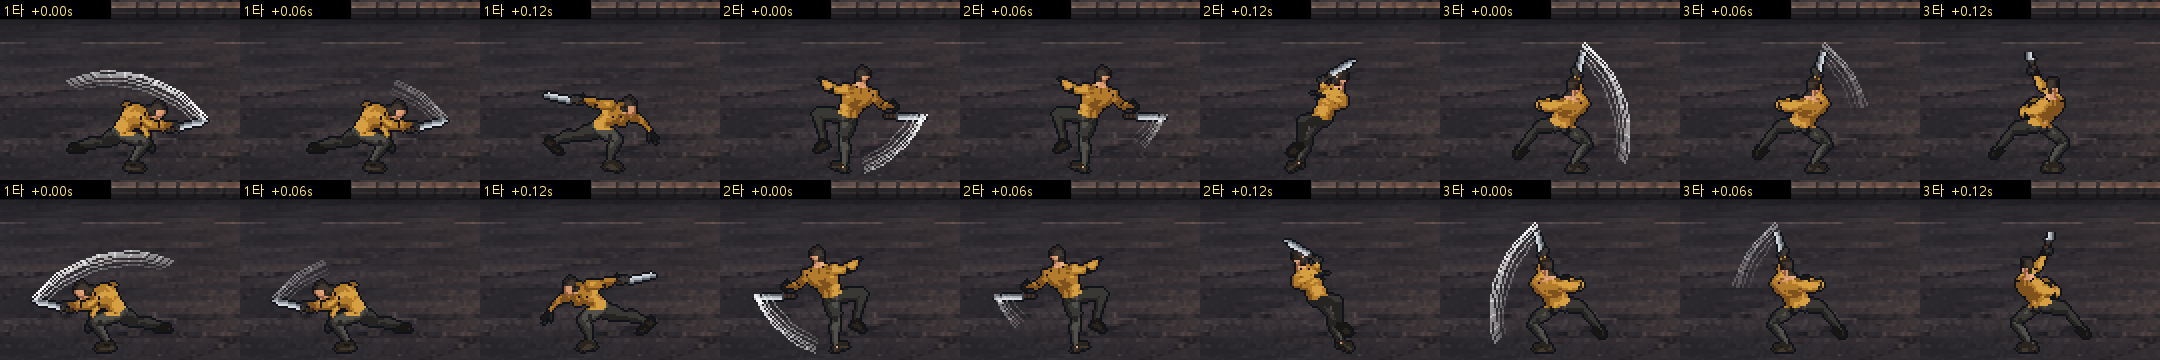
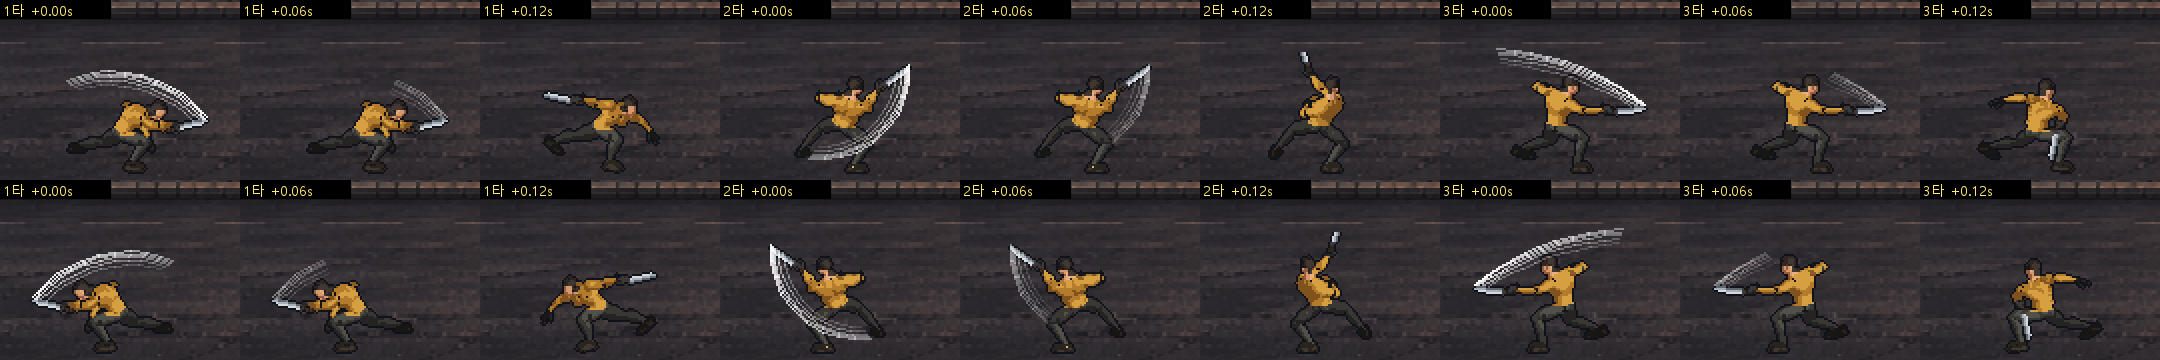
이동 속도·뛰기, 연타를 가로 베기 → 올려 베기 → 내려치기로
- 걷기 2.0m/s, 은신 1.3m/s, 뛰기 4.8m/s (Space를 누른 채 이동: 대시에 이어 뛰기)
- 뛰기 시트 run=Jog_Fwd_Loop, stride_m 5.39 (걸은 거리로 재생)
- 3타 내려치기: Sword_Attack (머리 위로 들었다 파고들며 내려침), 2타 올려 베기 4칸
- 검로: 베기는 몸 앞을 지나는 쪽으로 돌게 (올려 베기 185° 문제), 넓게 돌아도 앞이 아니면 찌르기 잔상
- HUD 안내, README·PRD·PLAN·CHARACTER_WORKFLOW·개발일지 갱신

diff --git a/src/weapon.py b/src/weapon.py
@@ -26,10 +26,10 @@ Weapon = namedtuple("Weapon", "name swings combo_window sneak_multiplier")
 MACHETE = Weapon(
     name="마체테",
     swings=(
-        # 1st and 2nd: quick, light blows; 3rd: the big rising cut with a real wind-up.
+        # 1st and 2nd: quick, light blows; 3rd: the big chop with a real wind-up.
         Swing("swing", 0.46, 0.14, 2, 42, 20, pi / 3, 110, 0.72, False),    # quick sweep
-        Swing("swing2", 0.50, 0.20, 2, 44, 20, pi / 3, 110, 0.70, False),   # quick thrust
-        Swing("swing3", 0.66, 0.26, 6, 50, 24, pi / 3, 320, 0.76, True),    # big rising cut
+        Swing("swing2", 0.50, 0.16, 2, 46, 22, pi / 3, 110, 0.73, False),   # rising cut
+        Swing("swing3", 0.72, 0.30, 6, 50, 24, pi / 3, 320, 0.74, True),    # big chop down
     ),
     combo_window=0.25,
     sneak_multiplier=3,
@@ -128,7 +128,7 @@ class MeleeAttack:
         # While the impact frame shows, the whole blow; once the sprite moves on, a cut's arc
         # stays only as a fading after-image and a thrust's streak (tied to the blade) goes.
         draw_stroke(before, lines[impact], fade * (0.45 if moved_on else 1), MAX_BLOW_TURN,
-                    streak=not moved_on)
+                    streak=not moved_on, facing=attacker.direction)
         if moved_on and impact + 1 < len(lines) and lines[impact + 1]:
             draw_stroke(lines[impact], lines[impact + 1], fade, MAX_FOLLOW_TURN)
 
@@ -138,23 +138,32 @@ class MeleeAttack:
             pico2d.draw_line(x + self.dx * x1, y + y1, x + self.dx * x2, y + y2, shade, shade, shade)
 
 
-# Radians a blade may turn between two frames and still read as a cut: the blow itself can
-# swing wide (a sweep over the head turns ~140 degrees), the follow-through less. A blow
-# turning further is a thrust or a flip and gets a straight streak instead.
-MAX_BLOW_TURN = 2.7
-MAX_FOLLOW_TURN = 1.75
+# Radians a blade may turn between two frames and still read as a cut. A blow's arc goes the
+# way round that passes in front of the body (a cut always crosses the front); it may turn
+# up to MAX_BLOW_TURN (a rising cut from behind turns ~185 degrees). A wide turn whose middle
+# is not in front (the blade flips over the head, as in a thrust) gets a straight streak.
+MAX_BLOW_TURN = 3.5
+WIDE_TURN = 2.7
+MIN_FRONT = 0.3              # cos of the arc's middle angle along the facing for a wide cut
+MAX_FOLLOW_TURN = 1.9
 RINGS = ((1.0, 255), (0.93, 235), (0.86, 205), (0.75, 150), (0.62, 90))   # radius, alpha
 
 
-def draw_stroke(before, at, fade, max_turn, streak=False):
+def draw_stroke(before, at, fade, max_turn, streak=False, facing=0):
     """Trail of a blade moving from `before` to `at` ((grip, tip) screen pairs): a crescent
-    when it turns at most max_turn, otherwise (a thrust or a backhand flip) a straight streak
-    behind the tip if streak is set, or nothing."""
+    when it turns at most max_turn, otherwise a straight streak behind the tip if streak is
+    set, or nothing. With facing (+1 / -1, for the blow itself) the arc takes the way round
+    that passes in front of the body, and a wide turn that is not in front is a thrust."""
     (g0, t0), (g1, t1) = before, at
     a0 = atan2(t0[1] - g0[1], t0[0] - g0[0])
     a1 = atan2(t1[1] - g1[1], t1[0] - g1[0])
     turn = (a1 - a0 + pi) % (2 * pi) - pi          # the short way round
-    if abs(turn) <= max_turn:
+    front = 1.0
+    if facing:
+        other = turn - 2 * pi if turn > 0 else turn + 2 * pi
+        turn = max((turn, other), key=lambda t: cos(a0 + t / 2) * facing)
+        front = cos(a0 + turn / 2) * facing
+    if abs(turn) <= max_turn and (abs(turn) <= WIDE_TURN or front >= MIN_FRONT):
         draw_sweep(before, at, a0, turn, fade)
     elif streak:
         draw_streak(at, fade)

diff --git a/src/player.py b/src/player.py
@@ -21,8 +21,9 @@ PLAYER_HALF_SIZE = 11
 # Leg cycles cover 1.30 m (walk) and 1.09 m (sneak) of ground, measured from how fast the
 # planted foot slides back in Blender. At these speeds the legs play 1.7x and 1.2x as fast
 # as authored: a brisk walk and a careful sneak, both still natural, feet planted.
-WALK_SPEED_M = 1.7           # metres per second
-SNEAK_SPEED_M = 1.0
+WALK_SPEED_M = 2.0           # metres per second
+SNEAK_SPEED_M = 1.3
+RUN_SPEED_M = 4.8            # Space held while moving (a dash rolls straight into a run)
 DASH_SPEED = 340
 DASH_DURATION = 0.14
 DASH_COOLDOWN = 0.45
@@ -39,6 +40,7 @@ class Player:
         self.tile_map = tile_map
         self.look = look         # character_look: draws poses, whatever the art
         self.sneaking = False
+        self.running = False
         self.direction = 1
         self.walk_time = 0.0     # seconds spent moving (0 while standing)
         self.walk_distance = 0.0 # metres walked, drives the leg cycle so feet never slide
@@ -209,6 +211,7 @@ class Player:
         keys = sdl2.SDL_GetKeyboardState(None)
         self.sneaking = bool(keys[sdl2.SDL_SCANCODE_LSHIFT] or keys[sdl2.SDL_SCANCODE_RSHIFT])
         direction_x, direction_y = self.movement_direction(keys)
+        self.running = bool(keys[sdl2.SDL_SCANCODE_SPACE]) and not self.sneaking
         if direction_x == direction_y == 0:
             if self.state != "IDLE":
                 self.stop()
@@ -219,7 +222,7 @@ class Player:
         elif not self.sneaking and self.state != "WALK":
             self.walk()
         movement_time = step * self.speed_multiplier
-        speed = (SNEAK_SPEED_M if self.sneaking else WALK_SPEED_M) * PX_PER_M_X
+        speed = (SNEAK_SPEED_M if self.sneaking else RUN_SPEED_M if self.running else WALK_SPEED_M) * PX_PER_M_X
         distance_per_axis = speed * movement_time / hypot(direction_x, direction_y)
         old = (self.x, self.y)
         if self.move(direction_x * distance_per_axis, direction_y * distance_per_axis):
@@ -278,8 +281,8 @@ class Player:
             # Holding Shift crouches at once, even before moving.
             self.draw_pose("sneak_idle" if self.sneaking else "idle", self.idle_time)
         else:
-            self.draw_pose("sneak" if self.sneaking else "walk", self.walk_time,
-                           distance=self.walk_distance)
+            pose = "sneak" if self.sneaking else "run" if self.running else "walk"
+            self.draw_pose(pose, self.walk_time, distance=self.walk_distance)
 
     def draw_dash_trail(self, strength):
         x, y = self.x - camera.x, self.y - 12

diff --git a/tools/blender/render_character.py b/tools/blender/render_character.py
@@ -26,18 +26,18 @@ SETTINGS = ["--tilt", "20", "--bands", "4", "--outline"]
 PASSES = [
     (LIB1,
      ["idle=Idle_Loop", "sneak_idle=Idle_Loop+Crouch_Idle_Loop*0.3", "walk=Walk_Loop",
-      "sneak=Walk_Loop+Crouch_Idle_Loop*0.3", "hurt=Hit_Chest", "down=Death01",
-      "pickup=Fixing_Kneeling@0-20"],
-     ["idle=4", "sneak_idle=4", "walk=12", "sneak=12", "hurt=3", "down=5", "pickup=4"],
+      "sneak=Walk_Loop+Crouch_Idle_Loop*0.3", "run=Jog_Fwd_Loop", "hurt=Hit_Chest", "down=Death01",
+      "pickup=Fixing_Kneeling@0-20", "swing3=Sword_Attack@0-16,Sword_Attack@26-36"],
+     ["idle=4", "sneak_idle=4", "walk=12", "sneak=12", "run=12", "hurt=3", "down=5", "pickup=4", "swing3=6,3"],
      ["--shift-for", "down=16"]),
     (LIB2,
-     # Machete combo (user order 2026-11-12, last change "can the 1st be the sweep?"): 1st a
-     # quick sweep (B, wind-up cut off), 2nd a quick thrust (C up to the stab, its end as the
-     # recovery), 3rd the big rising cut (A from its crouch on: the standing first frames
-     # read as a pause between hits).
-     ["swing=Sword_Regular_B@2-13,Sword_Regular_B_Rec", "swing2=Sword_Regular_C@0-8,Sword_Regular_C@30-48",
-      "swing3=Sword_Regular_A@4-,Sword_Regular_A_Rec@7-23"],
-     ["swing=4,3", "swing2=4,3", "swing3=6,3"],
+     # Machete combo (user order 2026-11-12, "1st sweep, 2nd rising cut, 3rd chop down"):
+     # 1st a quick sweep (B, wind-up cut off), 2nd the rising cut (A from its crouch on,
+     # fewer frames), 3rd the big chop (Sword_Attack: blade raised overhead, lunge, chop down
+     # to the ground, then its own return to standing).
+     # (swing3 is in the first library, so it is rendered with the first pass above.)
+     ["swing=Sword_Regular_B@2-13,Sword_Regular_B_Rec", "swing2=Sword_Regular_A@4-,Sword_Regular_A_Rec@7-23"],
+     ["swing=4,3", "swing2=4,3"],
      []),
 ]
 

diff --git a/src/character_look.py b/src/character_look.py
@@ -29,9 +29,9 @@ import pico2d
 from nav import PX_PER_M_X
 
 
-LOOPING = {"idle", "walk", "sneak", "sneak_idle"}
+LOOPING = {"idle", "walk", "sneak", "sneak_idle", "run"}
 # A pose a character's sheets lack falls back to a close one: (pose, fixed frame or None).
-FALLBACK = {"sneak_idle": ("sneak", 0)}
+FALLBACK = {"sneak_idle": ("sneak", 0), "run": ("walk", None)}
 
 
 class SheetLook:
@@ -132,6 +132,8 @@ class LegacyLook:
     def pick(self, pose, time):
         if pose == "sneak_idle":
             return "sneak", 0
+        if pose == "run":
+            pose = "walk"                       # the old art has no run; walk faster instead
         if pose in ("walk", "sneak"):
             step = int(time / self.FRAME_TIME[pose]) % len(self.WALK_CYCLE)
             return pose, self.WALK_CYCLE[step]

diff --git a/src/hud.py b/src/hud.py
@@ -48,7 +48,7 @@ class ExplorationBar:
         width = ui.text_width(label, 14) + 12
         ui.panel(x - width / 2, y - radius - 2, x + width / 2, y - radius + 16, ui.PARTY)
         ui.text_center(x, y - radius + 7, label, ui.TEXT, 14)
-        ui.text(124, 70, "WASD 이동   Shift 은신   E 상호작용   Space 대시", ui.MUTED, 14)
+        ui.text(124, 70, "WASD 이동   Shift 은신   E 상호작용   Space 대시(누르고 있으면 뛰기)", ui.MUTED, 14)
         ui.text(124, 44, "좌클릭 마체테(연타 3번) · ! 뜨면 Space(직전이면 반격) · 들키기 전 공격은 기습", ui.MUTED, 14)
         ui.text(124, 18, "Tab 배낭   F1 설정   Esc 종료", ui.DIM, 14)
 

diff --git a/assets/characters/CHARACTER_WORKFLOW.md b/assets/characters/CHARACTER_WORKFLOW.md
@@ -127,11 +127,12 @@
 | 게임 동작 | 사용 애니메이션 | 칸 수 | 메모 |
 | --- | --- | --- | --- |
 | idle | `Idle_Loop` | 4 | |
-| walk | `Walk_Loop` | 12 | 2026-11-11 가볍게 뛰기(`Jog_Fwd_Loop`)를 잠깐 썼으나 실제로 약 6m/s 달리기 동작이라 걷기로 되돌림. 1.7m/s에서 원본의 1.7배 속도로 재생. 8→12칸으로 늘려 땅에 닿은 발이 덜 밀림 |
+| walk | `Walk_Loop` | 12 | 2026-11-11 가볍게 뛰기(`Jog_Fwd_Loop`)를 잠깐 썼으나 실제로 약 6m/s 달리기 동작이라 걷기로 되돌림. 1.7m/s에서 원본의 1.7배 속도로 재생(2026-11-12 2.0m/s). 8→12칸으로 늘려 땅에 닿은 발이 덜 밀림 |
 | sneak | `Walk_Loop` 위에 `Crouch_Idle_Loop`를 30% 얹음(`Walk_Loop+Crouch_Idle_Loop*0.3`) | 12 | 2026-11-11 30%로 조정(처음 40%), 6→12칸. 섞을 때는 COMBINE(회전을 곱해 더함)을 써야 함. 단순 평균(REPLACE)은 다리가 뒤로 뒤집힘 |
 | swing (1타) | `Sword_Regular_B@2-13` 4칸 + 복귀 `Sword_Regular_B_Rec` 3칸 (두 번째 팩 UAL2) | 7 | 빠른 가로 베기(준비 동작 잘라냄). 맞는 칸 인덱스 1, `hold` 0.35. 2026-11-12 "첫 번째 동작을 가로 베기로" → 다시 1타 |
-| swing2 (2타) | `Sword_Regular_C@0-8` 4칸 + `Sword_Regular_C@30-48` 3칸 | 7 | 내지르기: 뒤로 빼기 → 내리기 → 앞으로 찌르기. 맞는 칸 인덱스 2, `hold` 0.35. C@0-18은 중간에 칼을 다시 치켜드는 동작이 섞여 0-8로 자름 |
-| swing3 (3타) | `Sword_Regular_A@4-` 6칸 + 복귀 `Sword_Regular_A_Rec@7-23` 3칸 | 9 | 크게 숙였다가 베어 올리는 마무리. 처음 서 있는 칸은 타와 타 사이가 멈춘 것처럼 보여 뺌(`@4-`는 4프레임부터 끝까지). 맞는 칸 인덱스 2. 2026-11-11에는 이 동작이 1타(`swing`)였음 |
+| swing2 (2타) | `Sword_Regular_A@4-` 4칸 + 복귀 `Sword_Regular_A_Rec@7-23` 3칸 | 7 | 올려 베기: 숙인 자세에서 칼이 앞으로 올라감. 맞는 칸 인덱스 1, `hold` 0.35. 2026-11-12 "2타 올려 베기"로 3타에서 옮기며 6칸 → 4칸 |
+| swing3 (3타) | `Sword_Attack@0-16` 6칸 + `Sword_Attack@26-36` 3칸 (첫 번째 팩 UAL1) | 9 | 내려치기: 칼을 머리 위로 들었다가 앞으로 파고들며 내려침. 맞는 칸 인덱스 3, `hold` 0.25. 첫 번째 팩 동작이라 첫 번째 렌더 묶음에 들어 있음. 후보로 `TreeChopping_Loop`(내려치나 허리 높이에서 멈춤), `Sword_Regular_Combo`, `Melee_Hook`도 그려 비교함 |
+| run | `Jog_Fwd_Loop` | 12 | 2026-11-12 뛰기. 원래 5.87m/s(한 바퀴 0.92초에 5.39m), 게임 4.8m/s에서 걸은 거리로 재생 |
 | sneak_idle | `Idle_Loop` 위에 `Crouch_Idle_Loop`를 40% 얹음 | 4 | Shift만 누르고 서 있을 때. 시트가 없는 캐릭터는 `sneak` 첫 칸으로 대신함(`character_look.FALLBACK`) |
 | hurt | `Hit_Chest` | 3 | |
 | down | `Death01` | 5 | 마지막 칸 유지 |
@@ -291,3 +292,4 @@
 | 2026-11-12 | 사용자 지시 "2타가 조금 잘 안 보임, 차라리 1, 2타 순서를 바꾸자" | `render_character.py`에서 swing=C(내지르기), swing2=B(가로 베기)로 바꿔 다시 그림. `look.json`·`blade.json`도 함께 바뀜. 점검: ① 1타 직선 잔상 ② 2타 머리 위 호 ③ 3타 올려 베기 호 ④ 좌우 반전 맞음. 게임 화면 `previews/blade_trail_ingame.png` |
 | 2026-11-12 | 사용자 지시 "1·2타가 너무 빨라 잘 안 보이고 흰 선도 잘 안 맞음" | 원인: 맞는 칸이 0.047초만 보임. `look.json`에 `hold`(맞는 칸을 붙잡는 비율) 추가, 1타를 `C@0-8`로 다시 그림(6칸으로 늘려 보니 C 중간에 칼을 다시 치켜드는 동작이 섞여 있었음). 점검: ① 맞는 칸 약 0.1초 ② 1타 찌르는 칸에서 칼이 앞을 향함 ③ 검로가 맞는 칸의 칼과 이어짐 ④ 다음 칸으로 넘어가면 직선 잔상 사라짐. 게임 화면 `previews/blade_trail_ingame.png` |
 | 2026-11-12 | 사용자 지시 "첫 번째 동작을 가로 베기가 가능할까요?" | swing=B(가로 베기), swing2=C@0-8(내지르기)로 바꿔 다시 그림. `look.json`·`blade.json`·무기 시간도 함께 바꿈. 점검: ① 1타 머리 위 호 ② 2타 아래에서 앞으로 올라오는 짧은 호 ③ 3타 올려 베기 호 ④ 좌우 반전 맞음. 게임 화면 `previews/blade_trail_ingame.png` |
+| 2026-11-12 | 사용자 지시 "뛰기 기능", "1타 가로 베기, 2타 올려 베기, 3타 내려치기" | `run=Jog_Fwd_Loop` 12칸 추가(`look.json` `stride_m` 5.39). 내려치기 후보 4개(`Sword_Attack`, `TreeChopping_Loop`, `Sword_Regular_Combo`, `Melee_Hook`)를 그려 비교하고 `Sword_Attack`을 3타로. 점검: ① 뛰기 다리가 걸은 거리와 맞음 ② 2타 검로가 아래에서 앞으로 올라감(전에는 머리 위로 그려짐 → "베기는 몸 앞을 지난다" 규칙) ③ 3타 검로가 머리 위에서 앞으로 내려옴 ④ 좌우 반전 맞음. 게임 화면 `previews/blade_trail_ingame.png` |

diff --git a/README.md b/README.md
@@ -25,13 +25,13 @@ python src/main.py
 
 지상 카메라는 캐릭터를 가로로 따라갑니다. 피폭체를 피하거나 쓰러뜨리고 오른쪽 출구에 도착하는 것이 목표입니다.
 
-마우스가 캐릭터의 왼쪽이나 오른쪽에 있으면 그쪽을 봅니다. `좌클릭`으로 마체테를 휘두르고(휘두르는 중에 다시 누르면 3연타까지 이어짐), `Space`로 이동 입력 방향에 짧게 대시합니다. 이동 입력이 없으면 바라보는 방향으로 대시합니다.
+마우스가 캐릭터의 왼쪽이나 오른쪽에 있으면 그쪽을 봅니다. `좌클릭`으로 마체테를 휘두르고(휘두르는 중에 다시 누르면 3연타까지 이어짐), `Space`로 이동 입력 방향에 짧게 대시합니다. 이동 입력이 없으면 바라보는 방향으로 대시합니다. `Space`를 누른 채 이동하면 대시에 이어 **뛰기**(초속 4.8m)가 됩니다. 걷기는 초속 2.0m, 은신은 1.3m입니다.
 
 ### 전투 (실시간)
 
 피폭체와는 실시간으로 싸웁니다(2026-11-12 턴제에서 전환, [PRD](PRD.md) v3.0).
 
-- `좌클릭`: 마체테로 벱니다. 휘두르는 중에 다시 누르면 가로 베기 → 내지르기 → 올려 베기 3연타로 이어집니다. 1·2타는 빠르고 가볍고, 3타는 크게 베어 올려 가장 셉니다(2·2·6).
+- `좌클릭`: 마체테로 벱니다. 휘두르는 중에 다시 누르면 가로 베기 → 올려 베기 → 내려치기 3연타로 이어집니다. 1·2타는 빠르고 가볍고, 3타는 칼을 머리 위로 들었다가 크게 내려쳐 가장 셉니다(2·2·6).
 - 피폭체 머리 위에 `!`가 뜨면 곧 할퀴기가 옵니다. `Space` 대시 중에는 맞지 않으니 그 순간 피하세요. 맞으면 체력이 2 줄고 뒤로 밀립니다.
 - **완벽 회피:** 할퀴기가 들어오기 직전(0.2초 안)에 대시하면 하얀 고리와 함께 잠깐 느린 화면이 되고, 1.2초 안에 맞힌 다음 공격이 **반격**(피해 2배)이 됩니다. 반격 시간에 공격하면 피한 피폭체에게 자동으로 파고들며(최대 2m) 벱니다.
 - 들키기 전에 가까이 다가가 휘두르면 **기습**으로 3배 피해를 줍니다.

diff --git a/docs/DEVLOG.md b/docs/DEVLOG.md
@@ -100,3 +100,5 @@
 - **1·2타가 보이게:** "1·2타가 너무 빨라 잘 안 보이고 흰 선도 안 맞는다." 재 보니 맞는 칸이 0.047초(약 3장)만 보였다. 맞는 칸을 잠깐 붙잡아 두는 공통 규칙(`hold`)을 넣어 약 0.1초로, 1타 0.5초·2타 0.46초로 늘렸다. 1타 동작을 칸을 늘려 다시 보니 중간에 칼을 다시 치켜드는 동작이 섞여 있어 찌르기까지만 잘랐다. 그림이 맞는 칸을 지나가면 찌르기 잔상은 지우고 베기 호는 흐리게 남긴다.
 - **반격 돌진:** 피하고 나면 대시로 멀어져 반격이 어렵다는 의견 → 세 방안 중 "반격 돌진" 선택. 반격 시간에 누르면 피한 적에게 최대 2m 파고들며 벤다(반투명 잔상). 점검: 70px 떨어진 곳에서 눌러 26px까지 붙은 뒤 피해 2배.
 - **1타를 다시 가로 베기로:** 사용자 요청. 가로 베기 → 내지르기 → 올려 베기. 내지르기는 이미 잘 보이게 고친 뒤라 2타여도 괜찮다.
+- **이동 속도와 뛰기:** 전투 박자에 비해 느리다는 의견으로 걷기 2.0·은신 1.3m/s, 뛰기 4.8m/s를 넣었다. 뛰기는 Space를 누른 채 이동(누르는 순간 대시, 계속 누르면 뛰기). 동작 팩의 조깅·질주 속도를 재 보니 조깅 5.87, 질주 8.28m/s라 조깅을 골랐다.
+- **연타 구성 변경:** "가로 베기 → 올려 베기 → 내려치기"로. 내려치기 후보 4개를 그려 비교해 `Sword_Attack`을 골랐다. 올려 베기를 2타로 옮기자 칼이 뒤-아래에서 앞까지 약 185° 돌아 검로가 머리 위로 잘못 그려졌다 → 베기 검로는 몸 앞을 지나는 쪽으로 돌게 고쳤다(공통 규칙).

diff --git a/PLAN.md b/PLAN.md
@@ -147,6 +147,10 @@
 
 - **2026-11-12 · 공기·총소리 요소 제외** — "어떤 게 좋다고 생각하세요?"에 A 중심·옆 시점 유지·어둠+손전등을 추천 → "공기 요소는 제외하죠, 총소리가 적을 부르는 요소도 제외하죠." 공기 잔량은 계속 빼고(2026-11-10 결정 유지), 총소리로 적을 부르는 규칙도 넣지 않는다.
 
+- **2026-11-12 · 이동 속도와 뛰기** — "다 하고 나서 이동 속도를 다듬어 보죠. 걷기랑 은신 속도가 다소 전투 박자감에 비해 느린 감이 있습니다. 뛰기 기능도 있으면 좀 더 전투 흐름이 높아질 것 같습니다." 걷기 2.0·은신 1.3·뛰기 4.8m/s, 뛰기는 Space를 누른 채 이동(새 키를 늘리지 않고 대시에서 이어지게). PRD v3.8.
+
+- **2026-11-12 · 연타 구성 변경** — 작업 중 "지금 동작이 뭐뭐 가능하죠?"(서기·걷기·은신·대시·뛰기·3연타·기습·완벽 회피 반격·맞기·쓰러지기·줍기로 답함), "1타 가로 베기, 2타 올려 베기, 3타 내려치기 이렇게 안 되나" → 무료 동작 팩에서 `Sword_Attack`(머리 위로 들었다 내려치기)을 찾아 3타로. PRD v3.9.
+
 - **2026-11-12 · 1타를 다시 가로 베기로** — "첫 번째 동작을 가로 베기가 가능할까요?" 가로 베기를 1타, 내지르기를 2타로 되돌려 다시 그렸다. PRD v3.7.
 
 - **2026-11-12 · 반격 돌진** — "피하고 나서 멀어져서 바로 다시 반격하기 힘들긴 하다, 방안 제시해 봐" → 세 가지 제안(반격 돌진 / 느린 화면 중 주인공만 정상 속도 / 완벽 회피면 대시를 짧게) → "1번으로 가죠." PRD v3.6.
